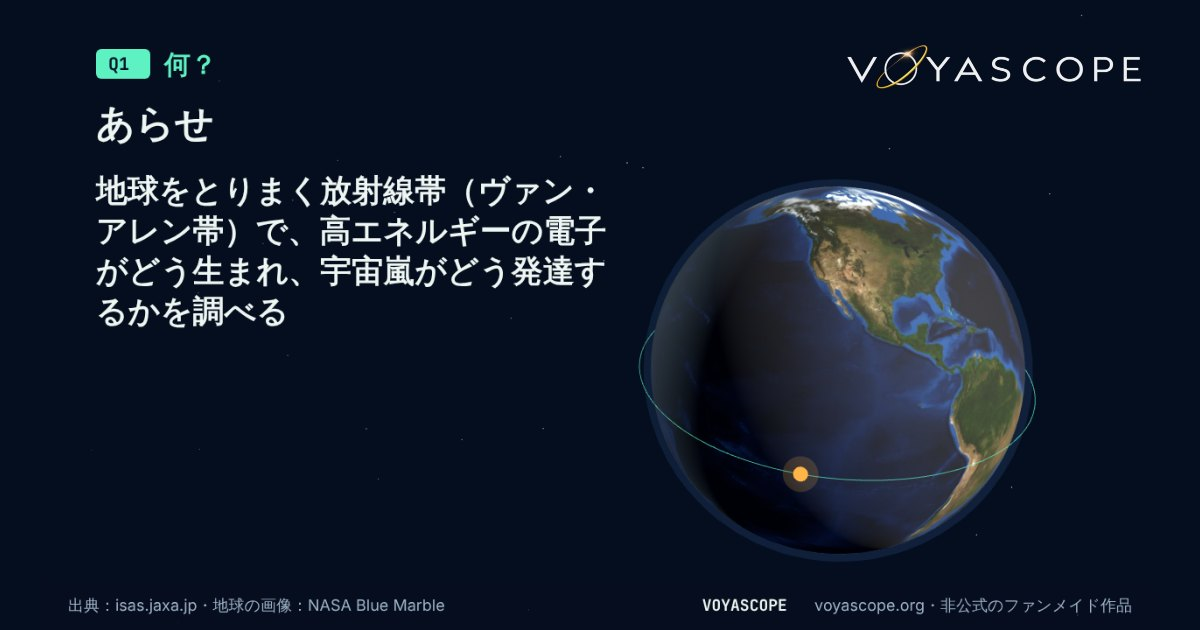
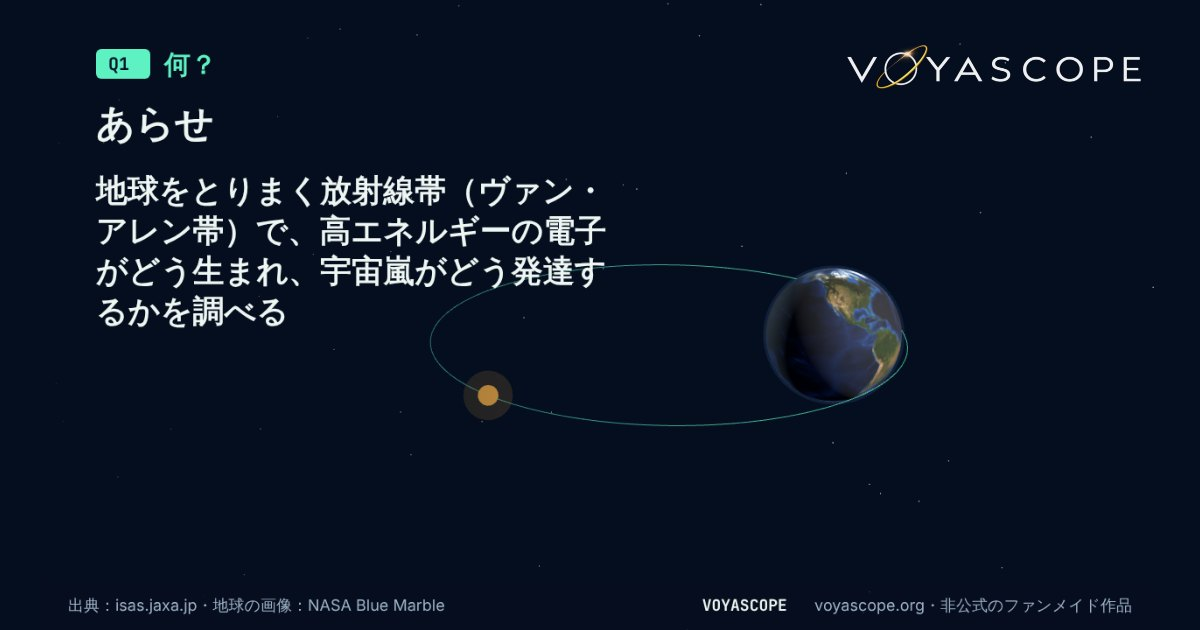
楕円の軌道の高さ（近地点〜遠地点）を出せるようにした（あらせ・案A）
- スキーマ：stats に perigee_km・apogee_km（近地点・遠地点の高さ）を足した
- あらせのカード：JAXA 宇宙科学研究所の機体紹介の「近地点 約440km」「遠地点 約32,000km」
- 地球の画面のカード：「高度 約 440〜32,000 km」（altRange。テストを1つ足した）
- 「一言でわかる」：Q3 は「近づいたり遠ざかったりしながら回っている（高さ 約440〜32,000 km）」。
  図は本当の比の楕円（地球は焦点、動きはケプラーの式）。カードの画像も作り直した
- 数字の表示崩れを点検した（「一言でわかる」全ページ・地球の画面の全機体×全タブ・
  遠くを見る部屋の24か所・アルテミス2号のツアー・MMX）。重さのほかに見つからなかった
- docs：handoff の判断待ちを外し、roadmap・changelog に記録

Claude-Session: https://claude.ai/code/session_01XQ4UBx4Cwb38oKMpWrrrzB

Changed region(s): [[0.5242, 0.2714, 0.8633, 0.8746], [0.37, 0.573, 0.4317, 0.6635], [0.6475, 0.8746, 0.74, 0.9048]]

diff --git a/web/missions/visual.js b/web/missions/visual.js
@@ -111,6 +111,14 @@ function start() {
     }
     return segs(pos, color, opacity);
   }
+  function ellipseLine(posAt, color = C.mint, opacity = 0.6) {
+    const pos = [];
+    for (let i = 0; i < 256; i++) {
+      const [x1, z1] = posAt((i / 256) * Math.PI * 2), [x2, z2] = posAt(((i + 1) / 256) * Math.PI * 2);
+      pos.push(x1, 0, z1, x2, 0, z2);
+    }
+    return segs(pos, color, opacity);
+  }
   function line(a, b, color = C.dim, opacity = 0.5) {
     return segs([...a.toArray(), ...b.toArray()], color, opacity);
   }
@@ -122,11 +130,23 @@ function start() {
     return o;
   }
   // 地球のまわりの機体：地球と高さの輪（本当の比）と、輪を回る点。文字のじゃまにならないよう右へ寄せる
+  // alt は高さ（km）か、楕円の軌道なら { peri, apo }（近地点・遠地点の高さ、km）。地球は楕円の焦点に置く
+  const orbitOf = (q) => (q?.peri && q?.apo ? { peri: q.peri, apo: q.apo } : q?.altKm ?? 400);
   function earthSystem(scene, cam, alt = 400, ringColor = C.mint, satColor = C.amber) {
-    const R = 1, r = R * (1 + alt / 6371);
+    const R = 1;
+    const ell = alt && typeof alt === "object" ? alt : null;
+    const rp = R * (1 + (ell ? ell.peri : alt) / 6371), ra = ell ? R * (1 + ell.apo / 6371) : rp;
+    const sa = (rp + ra) / 2, ecc = (ra - rp) / (ra + rp), sb = sa * Math.sqrt(1 - ecc * ecc);
+    const r = ra;
+    // 平均近点角 M から位置（ケプラーの式をニュートン法で解く）。円なら等速
+    const posAt = (M) => {
+      let E = M;
+      for (let i = 0; i < 8; i++) E -= (E - ecc * Math.sin(E) - M) / (1 - ecc * Math.cos(E));
+      return [sa * (Math.cos(E) - ecc), sb * Math.sin(E)];
+    };
     const g = new THREE.Group();
     const e = earth(R);
-    const orbit = ring(r, ringColor, 0.7);
+    const orbit = ell ? ellipseLine(posAt, ringColor, 0.7) : ring(r, ringColor, 0.7);
     orbit.rotation.x = 0.35;
     const sat = dot(satColor, 0.035 * Math.max(1, r / 1.5));
     g.add(e, orbit, sat);
@@ -141,8 +161,8 @@ function start() {
       sat,
       update(t) {
         e.rotation.y = t * 0.8;
-        const a = t * Math.PI * 2;
-        sat.position.set(Math.cos(a) * r, 0, Math.sin(a) * r).applyAxisAngle(new THREE.Vector3(1, 0, 0), 0.35);
+        const [x, z] = posAt(t * Math.PI * 2);
+        sat.position.set(x, 0, z).applyAxisAngle(new THREE.Vector3(1, 0, 0), 0.35);
       },
     };
   }
@@ -162,7 +182,7 @@ function start() {
       lights(scene);
       scene.add(stars());
       if (!V.model) {
-        const es = earthSystem(scene, cam, V.q3?.altKm ?? 400);
+        const es = earthSystem(scene, cam, orbitOf(V.q3));
         return {
           scene, cam,
           update: es.update,
@@ -202,9 +222,9 @@ function start() {
         scene.add(m);
         cam.position.set(0, 0, 6);
       } else {
-        es = earthSystem(scene, cam, V.q3?.altKm ?? 400, C.dim, C.mint);
+        es = earthSystem(scene, cam, orbitOf(V.q3), C.dim, C.mint);
         m = es.sat;
-        size = 0.25 * Math.max(1, (1 + (V.q3?.altKm ?? 400) / 6371) / 1.5);
+        size = 0.25 * Math.max(1, (1 + (V.q3?.altKm ?? V.q3?.apo ?? 400) / 6371) / 1.5);
       }
       const rings = Array.from({ length: 3 }, () => {
         const r = ring(1, C.mint, 0.8);
@@ -241,16 +261,16 @@ function start() {
       lights(scene);
       scene.add(stars());
       if (V.group === "craft" || !V.q3?.km) {
-        const es = earthSystem(scene, cam, V.q3?.altKm ?? 400);
+        const es = earthSystem(scene, cam, orbitOf(V.q3));
         return {
           scene, cam,
           update: es.update,
           overlay(g) {
             title(g, 3);
-            big(g, V.q3?.altKm ? `高さ 約${V.q3.altKm.toLocaleString("ja-JP")} km` : "地球のまわり", 64, 250);
+            big(g, V.q3?.altKm ? `高さ 約${V.q3.altKm.toLocaleString("ja-JP")} km` : V.q3?.altText ? `高さ 約${V.q3.altText}` : "地球のまわり", 64, 250);
             g.font = `24px ${FONT}`;
             g.fillStyle = C.dim;
-            g.fillText("地球のまわりを回っている（輪の大きさは本当の比）", 64, 300);
+            g.fillText(V.q3?.apo ? "近づいたり遠ざかったりしながら回っている（輪の形と大きさは本当の比）" : "地球のまわりを回っている（輪の大きさは本当の比）", 64, 300);
             footer(g, V.q3?.src ? `出典：${V.q3.src}` : "");
           },
         };
@@ -403,7 +423,7 @@ function start() {
         };
       }
       // 地球のまわり：1周の時計
-      const es = earthSystem(scene, cam, V.q5?.altKm ?? 400, C.amber, C.mint);
+      const es = earthSystem(scene, cam, orbitOf(V.q5), C.amber, C.mint);
       let k = 0;
       return {
         scene, cam,

diff --git a/web/missions/arase/index.html b/web/missions/arase/index.html
@@ -91,7 +91,7 @@ footer { margin-top: 48px; padding-top: 16px; border-top: 1px solid rgba(255,255
   <section class="q" aria-labelledby="q3">
     <h2 id="q3"><span class="qn">Q3</span>どこ？</h2>
     <figure class="vis" data-q="3" hidden></figure>
-    <p>地球のまわりを回っている</p>
+    <p>地球のまわりを、近づいたり遠ざかったりしながら回っている（高さ 約440〜32,000 km）<span class="src">出典：<a href="https://www.isas.jaxa.jp/missions/spacecraft/current/erg.html" rel="noopener">isas.jaxa.jp</a> · 2026-11-02 確認</span></p>
     <a class="go" href="../../">VOYASCOPE で見る（地球のまわり）</a>
   </section>
 
@@ -120,7 +120,7 @@ footer { margin-top: 48px; padding-top: 16px; border-top: 1px solid rgba(255,255
     <li><a href="https://ergsc.isee.nagoya-u.ac.jp/index.shtml.ja" rel="noopener">ERG サイエンスセンター</a></li>
   </ul>
   <p class="src">VOYASCOPE のカードの最終確認：2026-11-02</p>
-  <script type="application/json" id="vis-data">{"id":"arase","group":"craft","model":null,"name":"あらせ","q1":{"text":"地球をとりまく放射線帯（ヴァン・アレン帯）で、高エネルギーの電子がどう生まれ、宇宙嵐がどう発達するかを調べる","src":"isas.jaxa.jp"},"q2":{"label":"運用中","note":"JAXA の表記は「後期運用中」。2032年度末までの観測運用の延長が承認されている","asOf":"2026-11-02","src":"jaxa.jp"},"q3":{"altKm":null,"src":""},"q4":[{"d":"2016年12月20日","label":"打ち上げ","kind":"past"},{"d":"いま","label":"運用中","kind":"now"}],"q5":{"periodMin":570,"speed":null,"lengthM":null,"mass":"350 kg","altKm":null,"src":"isas.jaxa.jp"}}</script>
+  <script type="application/json" id="vis-data">{"id":"arase","group":"craft","model":null,"name":"あらせ","q1":{"text":"地球をとりまく放射線帯（ヴァン・アレン帯）で、高エネルギーの電子がどう生まれ、宇宙嵐がどう発達するかを調べる","src":"isas.jaxa.jp"},"q2":{"label":"運用中","note":"JAXA の表記は「後期運用中」。2032年度末までの観測運用の延長が承認されている","asOf":"2026-11-02","src":"jaxa.jp"},"q3":{"altKm":null,"peri":440,"apo":32000,"altText":"440〜32,000 km","src":"isas.jaxa.jp"},"q4":[{"d":"2016年12月20日","label":"打ち上げ","kind":"past"},{"d":"いま","label":"運用中","kind":"now"}],"q5":{"periodMin":570,"speed":null,"lengthM":null,"mass":"350 kg","altKm":null,"peri":440,"apo":32000,"src":"isas.jaxa.jp"}}</script>
   <script type="module" src="../visual.js"></script>
   <footer>
     <p>VOYASCOPE は非公式のファンメイド作品です。宇宙機関・運用者とは関係ありません。</p>

diff --git a/web/missions/xrism/index.html b/web/missions/xrism/index.html
@@ -120,7 +120,7 @@ footer { margin-top: 48px; padding-top: 16px; border-top: 1px solid rgba(255,255
     <li><a href="https://heasarc.gsfc.nasa.gov/docs/xrism/" rel="noopener">NASA XRISM（HEASARC）</a></li>
   </ul>
   <p class="src">VOYASCOPE のカードの最終確認：2026-10-11</p>
-  <script type="application/json" id="vis-data">{"id":"xrism","group":"craft","model":null,"name":"XRISM（クリズム）","q1":{"text":"X線で宇宙の高温のガスを観測し、物質やエネルギーの流れと、天体の進化を調べる","src":"xrism.jaxa.jp"},"q2":{"label":"運用中","note":"2030年3月までの延長が決定。主力の検出器 Resolve のゲートバルブは開かないまま、観測を続けている","asOf":"2026-10-11","src":"xrism.jaxa.jp"},"q3":{"altKm":550,"src":"xrism.isas.jaxa.jp"},"q4":[{"d":"2023年9月7日","label":"打ち上げ","kind":"past"},{"d":"いま","label":"運用中","kind":"now"}],"q5":{"periodMin":96,"speed":null,"lengthM":8,"mass":"2 トン","altKm":550,"src":"xrism.jaxa.jp"}}</script>
+  <script type="application/json" id="vis-data">{"id":"xrism","group":"craft","model":null,"name":"XRISM（クリズム）","q1":{"text":"X線で宇宙の高温のガスを観測し、物質やエネルギーの流れと、天体の進化を調べる","src":"xrism.jaxa.jp"},"q2":{"label":"運用中","note":"2030年3月までの延長が決定。主力の検出器 Resolve のゲートバルブは開かないまま、観測を続けている","asOf":"2026-10-11","src":"xrism.jaxa.jp"},"q3":{"altKm":550,"peri":null,"apo":null,"altText":null,"src":"xrism.isas.jaxa.jp"},"q4":[{"d":"2023年9月7日","label":"打ち上げ","kind":"past"},{"d":"いま","label":"運用中","kind":"now"}],"q5":{"periodMin":96,"speed":null,"lengthM":8,"mass":"2 トン","altKm":550,"peri":null,"apo":null,"src":"xrism.jaxa.jp"}}</script>
   <script type="module" src="../visual.js"></script>
   <footer>
     <p>VOYASCOPE は非公式のファンメイド作品です。宇宙機関・運用者とは関係ありません。</p>

diff --git a/web/missions/himawari-9/index.html b/web/missions/himawari-9/index.html
@@ -119,7 +119,7 @@ footer { margin-top: 48px; padding-top: 16px; border-top: 1px solid rgba(255,255
     <li><a href="https://www.data.jma.go.jp/mscweb/ja/general/jmasatellite.html" rel="noopener">気象衛星センター</a></li>
   </ul>
   <p class="src">VOYASCOPE のカードの最終確認：2026-09-30</p>
-  <script type="application/json" id="vis-data">{"id":"himawari-9","group":"craft","model":null,"name":"ひまわり9号","q1":{"text":"日本と東アジア・西太平洋の気象を観測し、天気予報や台風・大雨の監視に使われる","src":"data.jma.go.jp"},"q2":{"label":"運用中","note":"本運用（定常観測中）。ひまわり8号は待機運用（スタンバイ）","asOf":"2026-09-30","src":"data.jma.go.jp"},"q3":{"altKm":35800,"src":"data.jma.go.jp"},"q4":[{"d":"2016年11月2日","label":"打ち上げ","kind":"past"},{"d":"いま","label":"運用中","kind":"now"}],"q5":{"periodMin":null,"speed":null,"lengthM":8,"mass":"1 トン","altKm":35800,"src":"jma.go.jp"}}</script>
+  <script type="application/json" id="vis-data">{"id":"himawari-9","group":"craft","model":null,"name":"ひまわり9号","q1":{"text":"日本と東アジア・西太平洋の気象を観測し、天気予報や台風・大雨の監視に使われる","src":"data.jma.go.jp"},"q2":{"label":"運用中","note":"本運用（定常観測中）。ひまわり8号は待機運用（スタンバイ）","asOf":"2026-09-30","src":"data.jma.go.jp"},"q3":{"altKm":35800,"peri":null,"apo":null,"altText":null,"src":"data.jma.go.jp"},"q4":[{"d":"2016年11月2日","label":"打ち上げ","kind":"past"},{"d":"いま","label":"運用中","kind":"now"}],"q5":{"periodMin":null,"speed":null,"lengthM":8,"mass":"1 トン","altKm":35800,"peri":null,"apo":null,"src":"jma.go.jp"}}</script>
   <script type="module" src="../visual.js"></script>
   <footer>
     <p>VOYASCOPE は非公式のファンメイド作品です。宇宙機関・運用者とは関係ありません。</p>

diff --git a/web/missions/iss/index.html b/web/missions/iss/index.html
@@ -122,7 +122,7 @@ footer { margin-top: 48px; padding-top: 16px; border-top: 1px solid rgba(255,255
     <li><a href="https://www.esa.int/Science_Exploration/Human_and_Robotic_Exploration/International_Space_Station" rel="noopener">ESA 国際宇宙ステーション</a></li>
   </ul>
   <p class="src">VOYASCOPE のカードの最終確認：2026-09-30</p>
-  <script type="application/json" id="vis-data">{"id":"iss","group":"craft","model":null,"name":"国際宇宙ステーション","q1":{"text":"宇宙で科学研究と技術の実証をする拠点","src":"nasa.gov"},"q2":{"label":"運用中","note":"参加機関は2030年までの運用を約束している（NASA の FAQ）","asOf":"2026-09-30","src":"nasa.gov"},"q3":{"altKm":400,"src":"nasa.gov"},"q4":[{"d":"1998年11月20日","label":"打ち上げ","kind":"past"},{"d":"いま","label":"運用中","kind":"now"}],"q5":{"periodMin":90,"speed":7.8,"lengthM":109,"mass":"420 トン","altKm":400,"src":"eol.jsc.nasa.gov"}}</script>
+  <script type="application/json" id="vis-data">{"id":"iss","group":"craft","model":null,"name":"国際宇宙ステーション","q1":{"text":"宇宙で科学研究と技術の実証をする拠点","src":"nasa.gov"},"q2":{"label":"運用中","note":"参加機関は2030年までの運用を約束している（NASA の FAQ）","asOf":"2026-09-30","src":"nasa.gov"},"q3":{"altKm":400,"peri":null,"apo":null,"altText":null,"src":"nasa.gov"},"q4":[{"d":"1998年11月20日","label":"打ち上げ","kind":"past"},{"d":"いま","label":"運用中","kind":"now"}],"q5":{"periodMin":90,"speed":7.8,"lengthM":109,"mass":"420 トン","altKm":400,"peri":null,"apo":null,"src":"eol.jsc.nasa.gov"}}</script>
   <script type="module" src="../visual.js"></script>
   <footer>
     <p>VOYASCOPE は非公式のファンメイド作品です。宇宙機関・運用者とは関係ありません。</p>

diff --git a/web/missions/daichi-4/index.html b/web/missions/daichi-4/index.html
@@ -118,7 +118,7 @@ footer { margin-top: 48px; padding-top: 16px; border-top: 1px solid rgba(255,255
     <li><a href="https://www.satnavi.jaxa.jp/ja/project/alos-4/" rel="noopener">JAXA サテライトナビゲーター</a></li>
   </ul>
   <p class="src">VOYASCOPE のカードの最終確認：2026-09-30</p>
-  <script type="application/json" id="vis-data">{"id":"daichi-4","group":"craft","model":null,"name":"だいち4号","q1":{"text":"レーダで地球を観測し、地面の動き・災害・森林や海の変化を調べる","src":"satnavi.jaxa.jp"},"q2":{"label":"運用中","note":"2025年3月31日から定常観測運用","asOf":"2026-09-30","src":"jaxa.jp"},"q3":{"altKm":628,"src":"satnavi.jaxa.jp"},"q4":[{"d":"2024年7月1日","label":"打ち上げ","kind":"past"},{"d":"いま","label":"運用中","kind":"now"}],"q5":{"periodMin":null,"speed":null,"lengthM":null,"mass":"3 トン","altKm":628,"src":"satnavi.jaxa.jp"}}</script>
+  <script type="application/json" id="vis-data">{"id":"daichi-4","group":"craft","model":null,"name":"だいち4号","q1":{"text":"レーダで地球を観測し、地面の動き・災害・森林や海の変化を調べる","src":"satnavi.jaxa.jp"},"q2":{"label":"運用中","note":"2025年3月31日から定常観測運用","asOf":"2026-09-30","src":"jaxa.jp"},"q3":{"altKm":628,"peri":null,"apo":null,"altText":null,"src":"satnavi.jaxa.jp"},"q4":[{"d":"2024年7月1日","label":"打ち上げ","kind":"past"},{"d":"いま","label":"運用中","kind":"now"}],"q5":{"periodMin":null,"speed":null,"lengthM":null,"mass":"3 トン","altKm":628,"peri":null,"apo":null,"src":"satnavi.jaxa.jp"}}</script>
   <script type="module" src="../visual.js"></script>
   <footer>
     <p>VOYASCOPE は非公式のファンメイド作品です。宇宙機関・運用者とは関係ありません。</p>

diff --git a/web/missions/hinode/index.html b/web/missions/hinode/index.html
@@ -120,7 +120,7 @@ footer { margin-top: 48px; padding-top: 16px; border-top: 1px solid rgba(255,255
     <li><a href="https://hinode.nao.ac.jp/intro/outline/" rel="noopener">国立天文台 ひので科学プロジェクト</a></li>
   </ul>
   <p class="src">VOYASCOPE のカードの最終確認：2026-09-30</p>
-  <script type="application/json" id="vis-data">{"id":"hinode","group":"craft","model":null,"name":"ひので","q1":{"text":"太陽の磁場・コロナ・フレアを観測し、太陽で起こる活動や加熱のしくみを調べる","src":"isas.jaxa.jp"},"q2":{"label":"運用中","note":"","asOf":"2026-09-30","src":"isas.jaxa.jp"},"q3":{"altKm":680,"src":"isas.jaxa.jp"},"q4":[{"d":"2006年9月23日","label":"打ち上げ","kind":"past"},{"d":"いま","label":"運用中","kind":"now"}],"q5":{"periodMin":98,"speed":null,"lengthM":10,"mass":"900 kg","altKm":680,"src":"isas.jaxa.jp"}}</script>
+  <script type="application/json" id="vis-data">{"id":"hinode","group":"craft","model":null,"name":"ひので","q1":{"text":"太陽の磁場・コロナ・フレアを観測し、太陽で起こる活動や加熱のしくみを調べる","src":"isas.jaxa.jp"},"q2":{"label":"運用中","note":"","asOf":"2026-09-30","src":"isas.jaxa.jp"},"q3":{"altKm":680,"peri":null,"apo":null,"altText":null,"src":"isas.jaxa.jp"},"q4":[{"d":"2006年9月23日","label":"打ち上げ","kind":"past"},{"d":"いま","label":"運用中","kind":"now"}],"q5":{"periodMin":98,"speed":null,"lengthM":10,"mass":"900 kg","altKm":680,"peri":null,"apo":null,"src":"isas.jaxa.jp"}}</script>
   <script type="module" src="../visual.js"></script>
   <footer>
     <p>VOYASCOPE は非公式のファンメイド作品です。宇宙機関・運用者とは関係ありません。</p>

diff --git a/web/missions/qzs-6/index.html b/web/missions/qzs-6/index.html
@@ -119,7 +119,7 @@ footer { margin-top: 48px; padding-top: 16px; border-top: 1px solid rgba(255,255
     <li><a href="https://sys.qzss.go.jp/dod/constellation.html" rel="noopener">みちびき 衛星運用状況</a></li>
   </ul>
   <p class="src">VOYASCOPE のカードの最終確認：2026-09-30</p>
-  <script type="application/json" id="vis-data">{"id":"qzs-6","group":"craft","model":null,"name":"みちびき6号機","q1":{"text":"GPS と一体で使える測位の信号を送り、位置を安定して測れるようにする","src":"qzss.go.jp"},"q2":{"label":"運用中","note":"","asOf":"2026-09-30","src":"sys.qzss.go.jp"},"q3":{"altKm":36000,"src":"qzss.go.jp"},"q4":[{"d":"2025年2月2日","label":"打ち上げ","kind":"past"},{"d":"いま","label":"運用中","kind":"now"}],"q5":{"periodMin":null,"speed":null,"lengthM":19,"mass":"2 トン","altKm":36000,"src":"qzss.go.jp"}}</script>
+  <script type="application/json" id="vis-data">{"id":"qzs-6","group":"craft","model":null,"name":"みちびき6号機","q1":{"text":"GPS と一体で使える測位の信号を送り、位置を安定して測れるようにする","src":"qzss.go.jp"},"q2":{"label":"運用中","note":"","asOf":"2026-09-30","src":"sys.qzss.go.jp"},"q3":{"altKm":36000,"peri":null,"apo":null,"altText":null,"src":"qzss.go.jp"},"q4":[{"d":"2025年2月2日","label":"打ち上げ","kind":"past"},{"d":"いま","label":"運用中","kind":"now"}],"q5":{"periodMin":null,"speed":null,"lengthM":19,"mass":"2 トン","altKm":36000,"peri":null,"apo":null,"src":"qzss.go.jp"}}</script>
   <script type="module" src="../visual.js"></script>
   <footer>
     <p>VOYASCOPE は非公式のファンメイド作品です。宇宙機関・運用者とは関係ありません。</p>

diff --git a/web/missions/qzs-2/index.html b/web/missions/qzs-2/index.html
@@ -119,7 +119,7 @@ footer { margin-top: 48px; padding-top: 16px; border-top: 1px solid rgba(255,255
     <li><a href="https://sys.qzss.go.jp/dod/constellation.html" rel="noopener">みちびき 衛星運用状況</a></li>
   </ul>
   <p class="src">VOYASCOPE のカードの最終確認：2026-09-30</p>
-  <script type="application/json" id="vis-data">{"id":"qzs-2","group":"craft","model":null,"name":"みちびき2号機","q1":{"text":"GPS と一体で使える測位の信号を送り、位置を安定して測れるようにする","src":"qzss.go.jp"},"q2":{"label":"運用中","note":"","asOf":"2026-09-30","src":"sys.qzss.go.jp"},"q3":{"altKm":null,"src":""},"q4":[{"d":"2017年6月1日","label":"打ち上げ","kind":"past"},{"d":"いま","label":"運用中","kind":"now"}],"q5":{"periodMin":null,"speed":null,"lengthM":19,"mass":"2 トン","altKm":null,"src":"qzss.go.jp"}}</script>
+  <script type="application/json" id="vis-data">{"id":"qzs-2","group":"craft","model":null,"name":"みちびき2号機","q1":{"text":"GPS と一体で使える測位の信号を送り、位置を安定して測れるようにする","src":"qzss.go.jp"},"q2":{"label":"運用中","note":"","asOf":"2026-09-30","src":"sys.qzss.go.jp"},"q3":{"altKm":null,"peri":null,"apo":null,"altText":null,"src":""},"q4":[{"d":"2017年6月1日","label":"打ち上げ","kind":"past"},{"d":"いま","label":"運用中","kind":"now"}],"q5":{"periodMin":null,"speed":null,"lengthM":19,"mass":"2 トン","altKm":null,"peri":null,"apo":null,"src":"qzss.go.jp"}}</script>
   <script type="module" src="../visual.js"></script>
   <footer>
     <p>VOYASCOPE は非公式のファンメイド作品です。宇宙機関・運用者とは関係ありません。</p>

diff --git a/web/missions/ibuki-gw/index.html b/web/missions/ibuki-gw/index.html
@@ -118,7 +118,7 @@ footer { margin-top: 48px; padding-top: 16px; border-top: 1px solid rgba(255,255
     <li><a href="https://gosat-gw.nies.go.jp/" rel="noopener">国立環境研究所 GOSAT-GW</a></li>
   </ul>
   <p class="src">VOYASCOPE のカードの最終確認：2026-09-30</p>
-  <script type="application/json" id="vis-data">{"id":"ibuki-gw","group":"craft","model":null,"name":"いぶきGW","q1":{"text":"宇宙から、地球の水と温室効果ガスを観測する","src":"satnavi.jaxa.jp"},"q2":{"label":"運用中","note":"","asOf":"2026-09-30","src":"satnavi.jaxa.jp"},"q3":{"altKm":666,"src":"satnavi.jaxa.jp"},"q4":[{"d":"2025年6月29日","label":"打ち上げ","kind":"past"},{"d":"いま","label":"運用中","kind":"now"}],"q5":{"periodMin":null,"speed":null,"lengthM":null,"mass":"3 トン","altKm":666,"src":"satnavi.jaxa.jp"}}</script>
+  <script type="application/json" id="vis-data">{"id":"ibuki-gw","group":"craft","model":null,"name":"いぶきGW","q1":{"text":"宇宙から、地球の水と温室効果ガスを観測する","src":"satnavi.jaxa.jp"},"q2":{"label":"運用中","note":"","asOf":"2026-09-30","src":"satnavi.jaxa.jp"},"q3":{"altKm":666,"peri":null,"apo":null,"altText":null,"src":"satnavi.jaxa.jp"},"q4":[{"d":"2025年6月29日","label":"打ち上げ","kind":"past"},{"d":"いま","label":"運用中","kind":"now"}],"q5":{"periodMin":null,"speed":null,"lengthM":null,"mass":"3 トン","altKm":666,"peri":null,"apo":null,"src":"satnavi.jaxa.jp"}}</script>
   <script type="module" src="../visual.js"></script>
   <footer>
     <p>VOYASCOPE は非公式のファンメイド作品です。宇宙機関・運用者とは関係ありません。</p>

diff --git a/web/js/card.js b/web/js/card.js
@@ -88,6 +88,12 @@ function approxNumber(fact) {
   return `${approx}${numberJa(fact.value)}${fact.unit ? ` ${esc(fact.unit)}` : ""}`;
 }
 
+// 楕円の軌道：「約 440〜32,000 km」（近地点〜遠地点）
+export function altRange(s) {
+  const approx = /おおよそ|約/.test(`${s.perigee_km.note ?? ""}${s.apogee_km.note ?? ""}`) ? "約 " : "";
+  return `${approx}${numberJa(s.perigee_km.value)}〜${numberJa(s.apogee_km.value)} km`;
+}
+
 const launchYear = (fact) => /^(\d{4})/.exec(fact?.value ?? "")?.[1];
 const nw = (t) => `<span class="nw">${t}</span>`;
 
@@ -191,6 +197,7 @@ function overviewHtml(card, aboard, family, statusSum, realNow) {
   const orbitLine = [
     launchYear(card.launch_date) && `${launchYear(card.launch_date)}年〜`,
     approxNumber(s.altitude_km) && `高度 ${approxNumber(s.altitude_km)}`,
+    s.perigee_km && s.apogee_km && !s.altitude_km && `高度 ${altRange(s)}`,
     approxNumber(s.period_min) && `1周 ${approxNumber(s.period_min).replace(" min", "分")}`,
   ]
     .filter(Boolean)

diff --git a/docs/changelog.md b/docs/changelog.md
@@ -8,7 +8,9 @@
 
 ## 2026-11-02
 
-- あらせ（ERG）を地球の画面に足した（C39 を公式ページで照合：JAXA 宇宙科学研究所の機体紹介・JAXA のプロジェクトページ「後期運用中」・ERG サイエンスセンター・ISAS ニュース 497 号〈2032年度末まで延長〉・2026-10-27 の成果発表）。カード `curation/spacecraft/arase.json`・`config/orbits.json`・「一言でわかる」のページとカードの画像。チャッピーの JSON から直したところ：英語名を `ARASE (ERG)` に／運用の出典を「JAXA で受信・記録」と書かれたページに／`operator_type` の出典をひのでと同じ JAXA の組織紹介に。入れなかったもの：高度（楕円で1つの値にならない → 判断待ち）・長さ（公式に記載なし）・画像（オーナー「いったん画像なし」）
+- あらせ（ERG）を地球の画面に足した（C39 を公式ページで照合：JAXA 宇宙科学研究所の機体紹介・JAXA のプロジェクトページ「後期運用中」・ERG サイエンスセンター・ISAS ニュース 497 号〈2032年度末まで延長〉・2026-10-27 の成果発表）。カード `curation/spacecraft/arase.json`・`config/orbits.json`・「一言でわかる」のページとカードの画像。チャッピーの JSON から直したところ：英語名を `ARASE (ERG)` に／運用の出典を「JAXA で受信・記録」と書かれたページに／`operator_type` の出典をひのでと同じ JAXA の組織紹介に。入れなかったもの：長さ（公式に記載なし）・画像（オーナー「いったん画像なし」）
+- 楕円の軌道の高さ（オーナー：案A）：スキーマに `perigee_km`・`apogee_km`（近地点・遠地点）を足し、あらせのカードに「高度 約440〜32,000 km」。「一言でわかる」の Q3 は「近づいたり遠ざかったりしながら回っている」と、本当の比の楕円（地球は焦点。動きはケプラーの式）
+- 数字の表示崩れの点検（オーナーの依頼：単位のせいで「0」になっていないか）：「一言でわかる」の全ページの文と図のデータ、地球の画面の全機体×全タブ（PC・スマホ）、遠くを見る部屋の24か所、アルテミス2号のツアー・MMX のページを、ブラウザで開いて「0 km」「NaN」「undefined」などを探した → 下の重さのほかには見つからなかった
 - 「一言でわかる」の重さ：1トン未満は kg で出す（あらせ 350 kg が「約0 トン」、ひので 900 kg が「約1 トン」になっていた）
 
 
